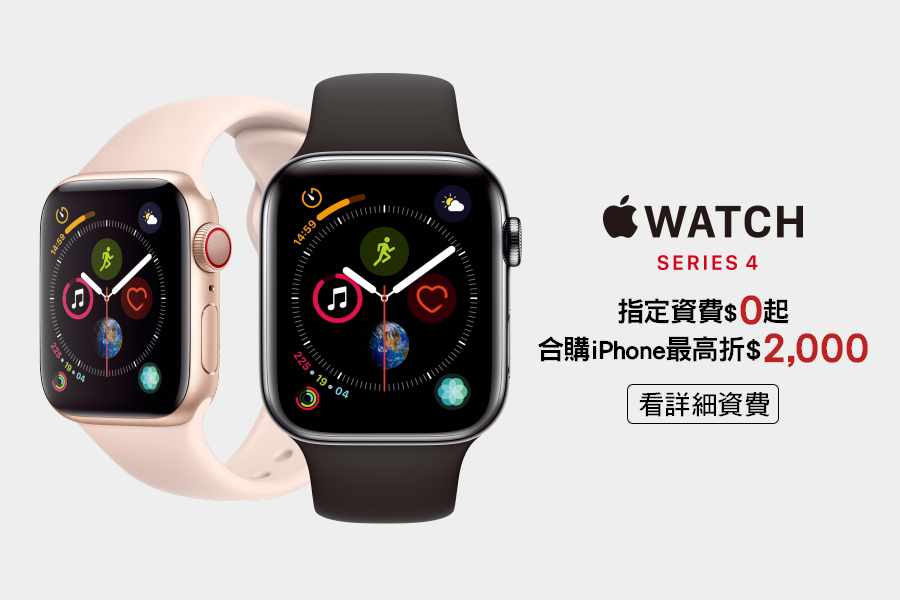
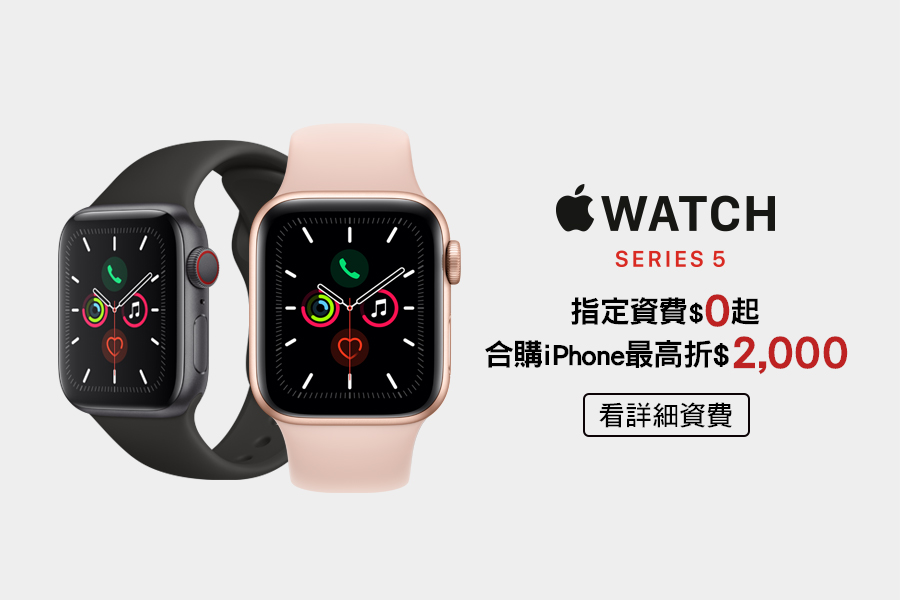
iPhone
更新watch圖檔 與加入ga event

Changed region(s): [[0.0311, 0.12, 0.9644, 0.9]]

diff --git a/demo/iPhone/watch.html b/demo/iPhone/watch.html
@@ -34,7 +34,7 @@
 		<div class="swiper-slide">
 	<img class="full-bg" src="assets/images/watch_bg.jpg" usemap="#Map1" data-width="900" data-height="600">		
 	<map name="Map1">
-		    <area target="_blank" alt="Apple WATCH" title="Apple WATCH" href="http://emomeapplewatch-crm.cdn.hinet.net/plan_4g.html" coords="627,384,784,426" shape="rect">
+		    <area target="_blank" onclick="javascript:ga('send', 'event', 'btn1', 'action', 'awbig4G');" alt="Apple WATCH" title="Apple WATCH" href="http://emomeapplewatch-crm.cdn.hinet.net/plan_4g.html" coords="627,384,784,426" shape="rect"> 
 	</map>
 	</div>
 	</div>
